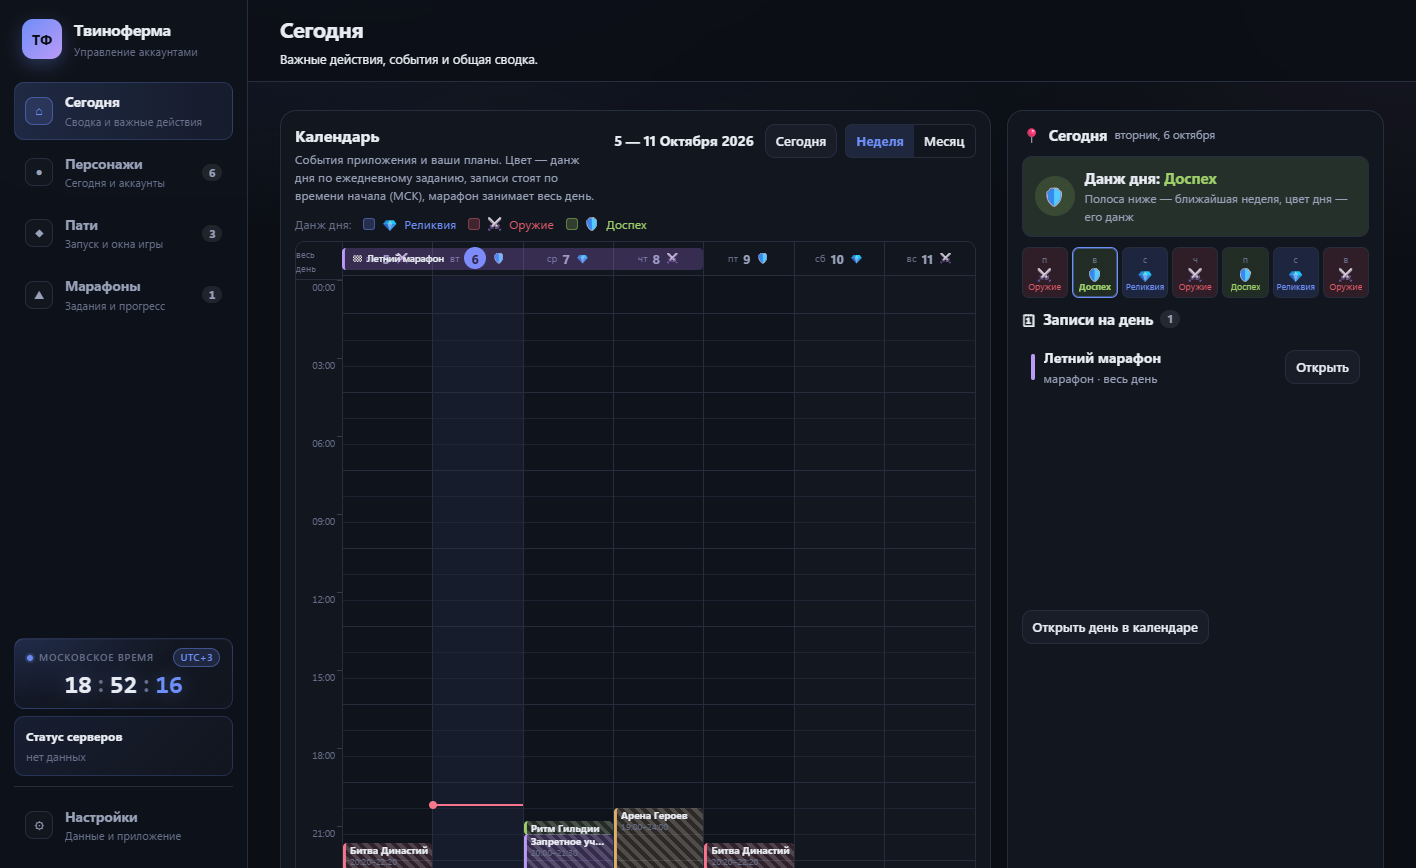
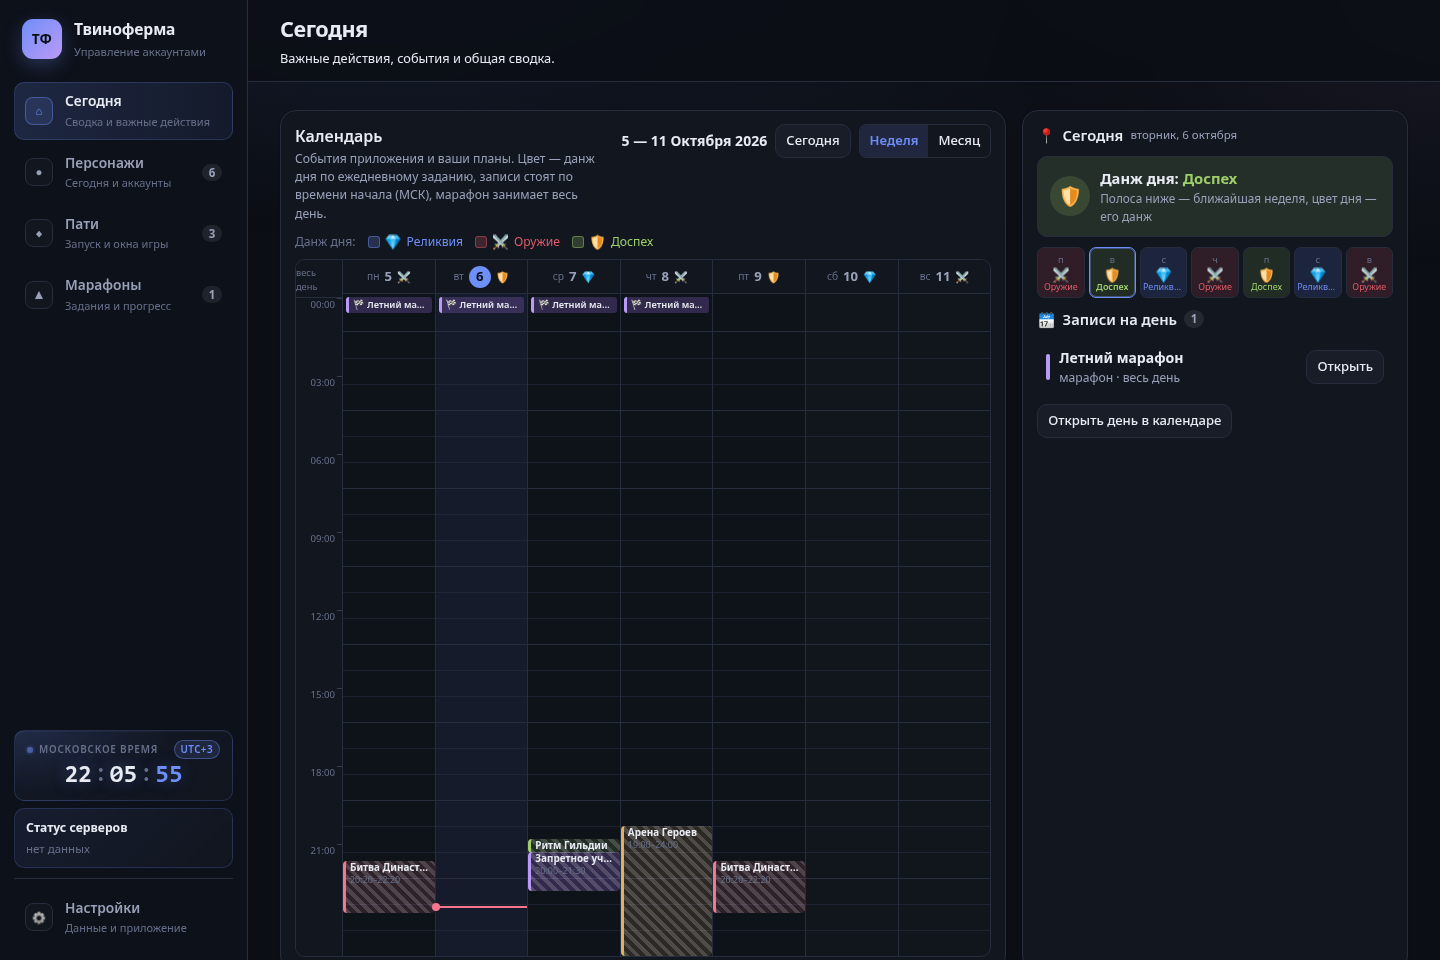
Документация: календарь, безопасность, резервные копии, новый скриншот

diff --git a/docs/MANUAL-CHECKS.md b/docs/MANUAL-CHECKS.md
@@ -4,7 +4,7 @@
 установщика, поиск Windows, системные уведомления и окна игры. Проверять по порядку —
 сначала то, без чего остальное не имеет смысла.
 
-Версия в файлах сейчас `1.0.0`; перед выпуском поднять до `1.1.0` (см. «Перед проверкой»).
+Версия в файлах сейчас `1.0.0` — это и есть версия релиза.
 
 ---
 
@@ -114,11 +114,33 @@ npm run tauri build                # установщики .msi и -setup.exe
 5. Кнопка **«💡 С чего начать»** над сеткой персонажей открывает его снова.
 6. Кнопка **«Как это работает»** в шаге 3 показывает справку по входу на сайт.
 
+## 7a. CSP и права окна (проверить на Windows до тега)
+
+**Зачем:** в 1.0.0 включена политика CSP (`app.security.csp`) и сокращены права
+`capabilities/default.json`. Автотесты этого не видят — только живое окно Tauri.
+
+1. `npm run tauri dev`: интерфейс открылся, кнопки (в т. ч. в окне экспорта «Все/Никто»,
+   значки в списке персонажей) работают, в консоли WebView2 (F12) нет `Refused to ...`.
+2. Работают: уведомления, «Проверить обновления», перезапуск после обновления,
+   открытие окон игры и сайта, события от окон (синхронизация баланса и марафонов).
+3. Кнопка «Открыть папку данных» в Настройках: допустимо, что вместо открытия путь копируется
+   в буфер (это прежнее поведение `shell:allow-open` для путей).
+4. **Если что-то сломалось из-за CSP** — временно верните `"csp": null` и сообщите, какая
+   директива указана в `Refused to ...`. **Если из-за прав** — добавьте обратно только
+   названное в ошибке разрешение `... not allowed` в `capabilities/default.json`.
+
+Известное ограничение: в интерфейсе остаются inline-обработчики (`onclick=`), поэтому в
+`script-src` стоит `'unsafe-inline'`, а автоматическая подстановка nonce отключена
+(`dangerousDisableAssetCspModification`). После 1.0 их стоит заменить делегированием событий
+и убрать `'unsafe-inline'`.
+
+---
+
 ## 8. Что уже проверено автоматически
 
 Чтобы не перепроверять руками:
 
-- **JS 1249 тестов**, **Rust 98 тестов**, lint и типы — чистые (в обоих часовых поясах).
+- **JS 1261 тест**, **Rust 98 тестов**, lint и типы — чистые (в обоих часовых поясах).
 - Раскладка недели, сплошные полосы марафона, дорожки наложений — тесты + замер на живом DOM.
 - Отсутствие прокрутки недели — замер `overflow-y` и `scrollHeight` в реальном браузере.
 - Приветственное окно: показ один раз, закрытие, повторный вызов — замер в реальном браузере.
@@ -140,6 +162,5 @@ npm run tauri build                # установщики .msi и -setup.exe
 
 ## Осталось сделать в коде
 
-- Поднять версию до **1.1.0** и обновить `CHANGELOG.md` с описанием релиза.
-- Запушить четыре коммита (`7d78e34`, `04e55ec`, `8fe5105`, `6d7435b`) — они пока только локально.
-- Тег `v1.1.0` и публикация черновика релиза — как в `docs/RELEASE.md`.
+- Запушить коммиты в `main`, дождаться зелёного CI.
+- Тег `v1.0.0` и публикация черновика релиза — как в `docs/RELEASE.md`.

diff --git a/CHANGELOG.md b/CHANGELOG.md
@@ -24,8 +24,10 @@
 - Календарь на вкладке «Сегодня»: месячная сетка с записями, которые можно создавать, отмечать
   выполненными и удалять. Есть типы (задача/событие/заметка), приоритет, повтор
   (ежедневно/еженедельно/ежемесячно) и дата окончания повтора.
-- **Раскладка записей по времени:** в ячейке дня — мини-шкала суток, запись стоит по времени начала,
-  а высота блока равна длительности. Записи без времени и марафоны идут отдельной строкой сверху.
+- **Неделя — вид по умолчанию:** общая ось времени для 7 колонок, запись стоит по времени начала,
+  высота блока равна длительности; подписи оси каждые 3 часа (между ними три ячейки).
+  Марафоны и записи без времени подписаны **под датой дня** и не закрашивают всю колонку.
+  Вид «Месяц» показывает названия записей, точное время — в окне дня.
 - **Окно дня** с полной шкалой `00:00–24:00` и блоками по длительности; записи внахлёст
   разводятся по дорожкам, а не перекрывают друг друга.
 - **Постоянные игровые ивенты** (повторяются каждую неделю, редактировать их не нужно):
@@ -113,6 +115,15 @@
 - Разбор значений со скриншота: `96587/96587` читается как число после `/`,
   `155668-166963` — как число после `-`.
 - В интерфейсе пропали «фантомные» символы рядом с круглой кнопкой действий.
+
+### Безопасность и данные
+
+- Включена политика **CSP** в окне приложения; права окна (`capabilities`) сокращены до реально
+  используемых: убраны создание окон и веб-вью из интерфейса (окна игры создаёт Rust).
+- Закрыта уязвимость зависимости `source-map-js` (`npm audit` — 0 уязвимостей).
+- **Резервная копия перед установкой обновления** и перед чтением данных более новой схемы;
+  уже была перед миграцией и импортом. Сбой копии установку не блокирует.
+- Расширены тесты миграций (цепочка v1→v7), полного сброса и установки обновления.
 
 ### Изменено
 

diff --git a/docs/RELEASE-NOTES-1.0.0.md b/docs/RELEASE-NOTES-1.0.0.md
@@ -23,8 +23,9 @@
 
 ### 📅 Календарь: записи по времени и постоянные ивенты
 
-- В ячейке дня — **мини-шкала суток**: запись стоит по времени начала, высота блока равна
-  длительности. Записи без времени и марафоны идут отдельной строкой сверху.
+- **Неделя** — вид по умолчанию: запись стоит по времени начала, высота блока равна длительности,
+  подписи оси каждые 3 часа. Марафоны и записи без времени подписаны под датой дня и не
+  закрашивают колонку. Вид «Месяц» показывает названия записей.
 - **Окно дня** с полной шкалой `00:00–24:00`; записи внахлёст разводятся по дорожкам.
 - **Постоянные игровые ивенты** — повторяются каждую неделю, заводить их не нужно:
 
@@ -62,6 +63,7 @@
 - **Состояние парсеров:** плашка «Парсер устарел», когда разбор страниц перестал находить поля.
 - **Единые журналы:** скрипты, промокоды и передачи — в одном разделе.
 - **Заводские настройки** с обязательным предложением экспорта.
+- **Резервная копия перед обновлением** приложения, перед миграцией и перед импортом данных.
 
 ### 🆕 Ещё
 
@@ -107,6 +109,7 @@
 - Куки `pwonline.ru` хранятся зашифрованными (AES-256-GCM), ключ — в хранилище ОС.
 - В сеть уходят только `pwonline.ru` и GitHub (обновления). Телеметрии нет.
 - Фоновые скрипты только **читают** страницы: ни кликов, ни отправки форм, ни запусков по расписанию.
+- В окне приложения включена политика CSP, права окна сокращены до необходимых.
 
 ---
 

diff --git a/README.md b/README.md
@@ -108,8 +108,9 @@
 
 ### 📅 Календарь и постоянные ивенты
 
-- **Записи дня по времени:** в ячейке календаря — мини-шкала суток, запись стоит по времени начала,
-  высота блока равна длительности. Записи без времени и марафоны — отдельной строкой сверху.
+- **Неделя по умолчанию:** время общее для всех колонок, запись стоит по времени начала,
+  высота блока равна длительности; подписи оси — каждые 3 часа. Марафоны и записи без времени
+  подписаны под датой дня и не закрашивают колонку. Вид «Месяц» показывает названия записей.
 - **Окно дня** с полной шкалой `00:00–24:00`; записи внахлёст разводятся по дорожкам.
 - **Типы записей** (задача/событие/заметка), приоритет, повтор (ежедневно/еженедельно/ежемесячно),
   дата окончания повтора, свой цвет и напоминание.
@@ -240,6 +241,11 @@
 - **Экспорт:** пароли попадают в файл экспорта только если вы отметили пункт «Пароли»
   (он помечен как опасный). Такой файл храните как пароль и не отправляйте другим.
 - **Где лежат данные:** `%APPDATA%\com.tvinoferma.desktop`.
+- **Защита окна приложения:** включена политика CSP (никаких внешних скриптов и запросов
+  из интерфейса), права окна ограничены минимумом — см. `src-tauri/tauri.conf.json` и
+  `src-tauri/capabilities/default.json`.
+- **Резервные копии:** автоматически перед миграцией данных, перед импортом и перед установкой
+  обновления; папка с копиями — рядом с файлом данных.
 
 ## 🆕 Что нового
 
